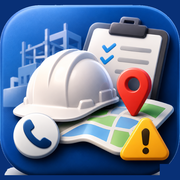
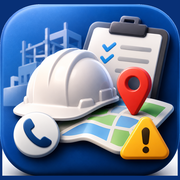
ホーム画面の絵を、元の画像から作り直した（くっきり）。版59
Claude-Session: https://claude.ai/code/session_018EELiATtoSW5toeeos7PZW

diff --git a/index.html b/index.html
@@ -7,9 +7,9 @@
 <meta name="apple-mobile-web-app-title" content="現場入場">
 <title>現場入場アプリ</title>
 <!-- 版59：ホーム画面の絵（ユーザーが用意した絵）。manifestは入れない（Androidで「アプリとして開く」に変わり、LINEのリンクで現場が入らなくなるため） -->
-<link rel="apple-touch-icon" href="apple-touch-icon.png?v=1">
-<link rel="icon" type="image/png" sizes="192x192" href="icon-192.png?v=1">
-<link rel="icon" type="image/png" sizes="32x32" href="favicon-32.png?v=1">
+<link rel="apple-touch-icon" href="apple-touch-icon.png?v=2">
+<link rel="icon" type="image/png" sizes="192x192" href="icon-192.png?v=2">
+<link rel="icon" type="image/png" sizes="32x32" href="favicon-32.png?v=2">
 <link rel="stylesheet" href="style.css?v=36">
 <script src="line-escape.js?v=59"></script>
 </head>
